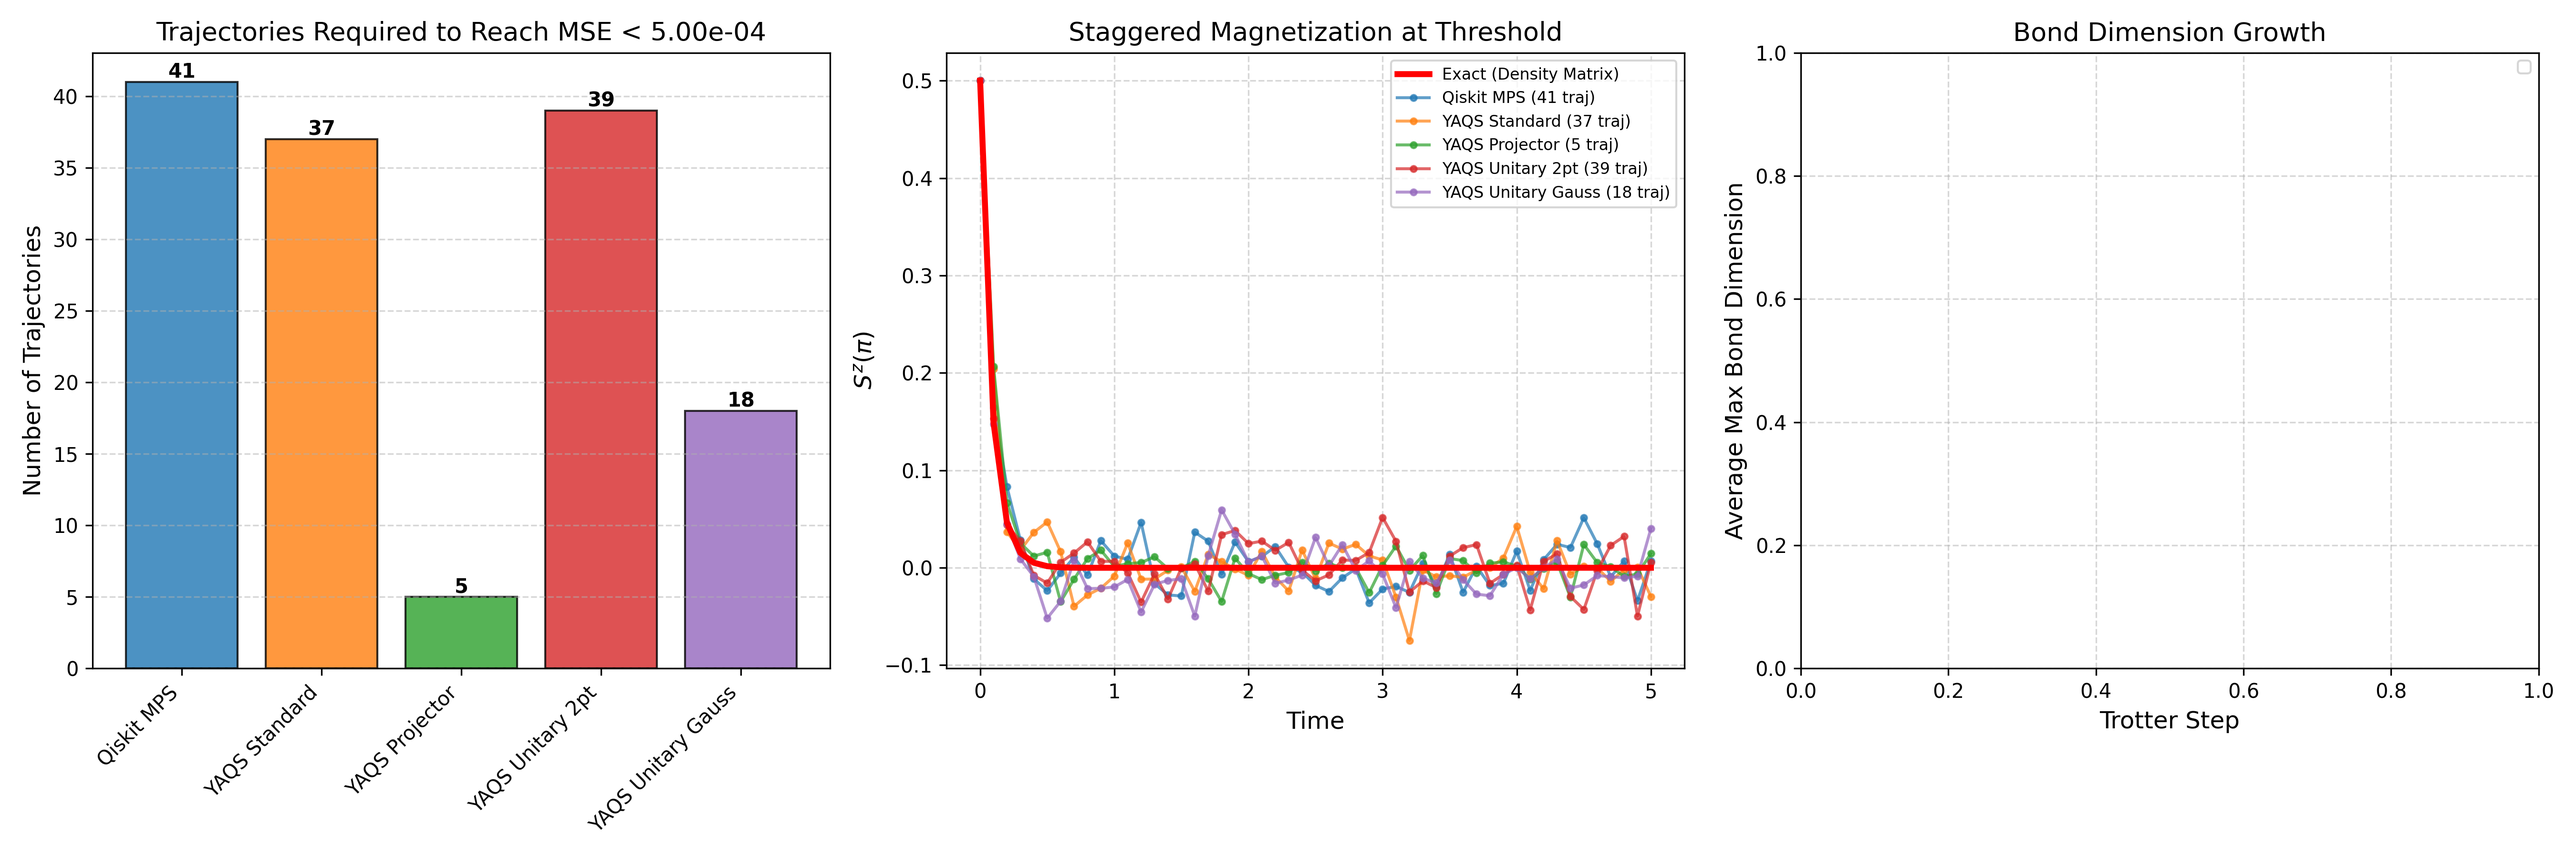
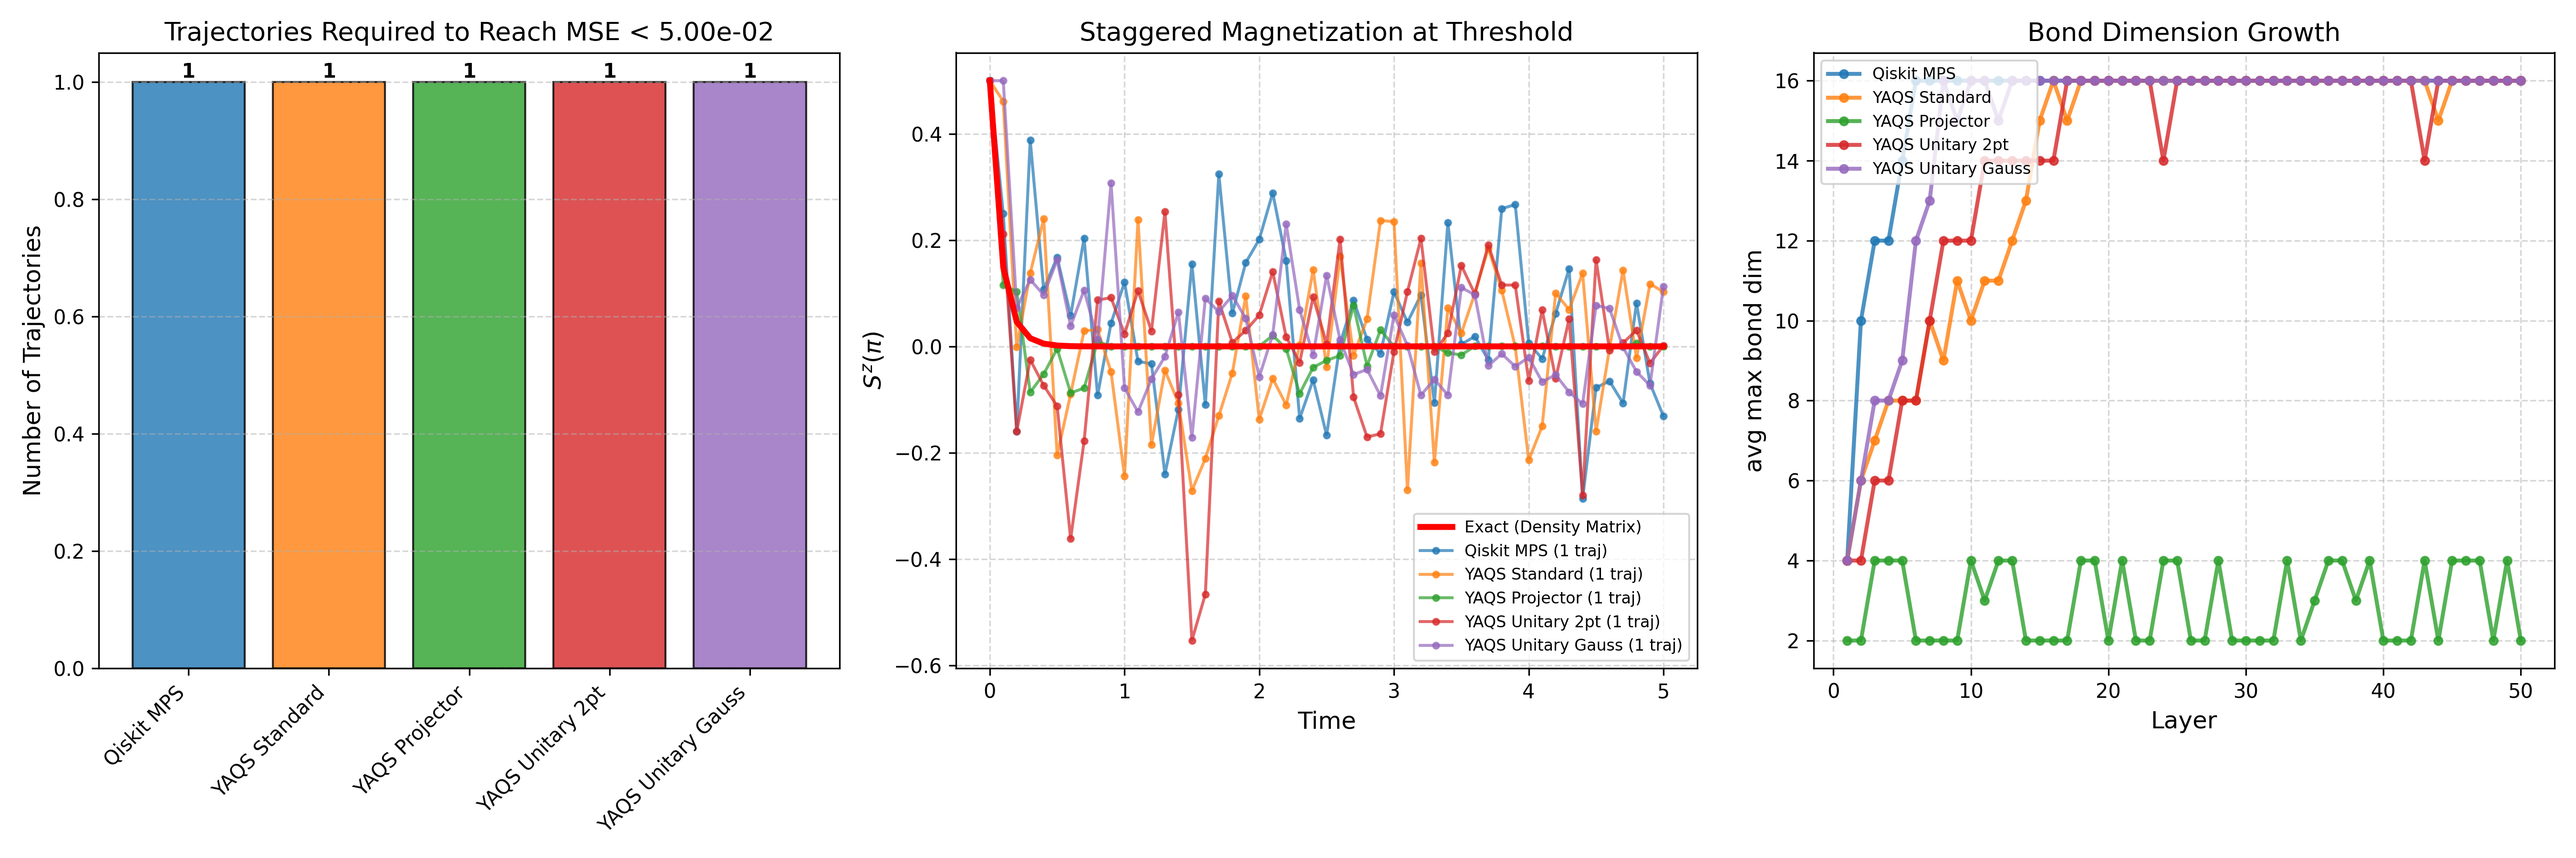
update

diff --git a/src/mqt/yaqs/codex_experiments/experiments/unraveling_trajectory_efficiency.py b/src/mqt/yaqs/codex_experiments/experiments/unraveling_trajectory_efficiency.py
@@ -5,6 +5,7 @@ from qutip import sigmax, sigmay, sigmaz, qeye, tensor, sesolve, basis
 from ..worker_functions.qiskit_simulators import run_qiskit_exact, run_qiskit_mps
 from ..worker_functions.yaqs_simulator import run_yaqs, build_noise_models
 from ..worker_functions.qiskit_noisy_sim import qiskit_noisy_simulator
+from ..worker_functions.plotting import plot_avg_bond_dims
 
 from qiskit import QuantumCircuit
 from qiskit.quantum_info import Pauli
@@ -110,7 +111,7 @@ if __name__ == "__main__":
     num_layers = 50
     tau = 0.1
     noise_strength = 0.1
-    threshold_mse = 5e-2  # Target MSE threshold
+    threshold_mse = 5e-4  # Target MSE threshold
     
     print("="*70)
     print("Trajectory Efficiency Comparison for Unraveling Methods")
@@ -278,61 +279,54 @@ if __name__ == "__main__":
     
     print("="*70)
 
-    # Process bond dimension data
-    # For each method, compute average max bond dimension per layer
-    print("\nProcessing bond dimensions...")
-    bond_dim_avg = {}
-    for method, data in results.items():
-        bonds = data.get("bonds")
-        print(f"  {method}: bonds type = {type(bonds)}")
-        if bonds is not None and isinstance(bonds, dict):
-            # Qiskit format: check for the correct key names
-            print(f"    Keys: {bonds.keys()}")
-            if "per_layer_mean_across_shots" in bonds:
-                bond_dim_avg[method] = bonds["per_layer_mean_across_shots"]
-                print(f"    ✓ Extracted bond dims shape: {bond_dim_avg[method].shape}")
-            elif "per_shot_per_layer_max_bond_dim" in bonds:
-                # Compute average from per-shot data
-                bond_dim_avg[method] = np.mean(bonds["per_shot_per_layer_max_bond_dim"], axis=0)
-                print(f"    ✓ Computed bond dims shape: {bond_dim_avg[method].shape}")
-        elif bonds is not None:
-            # YAQS format: might be numpy array or list
-            if isinstance(bonds, np.ndarray):
-                print(f"    Array shape: {bonds.shape}")
-                # Assume shape (num_traj, num_layers) or (num_layers,)
-                if bonds.ndim == 2:
-                    bond_dim_avg[method] = np.mean(bonds, axis=0)
-                    print(f"    ✓ Averaged bond dims shape: {bond_dim_avg[method].shape}")
-                elif bonds.ndim == 1:
-                    bond_dim_avg[method] = bonds
-                    print(f"    ✓ Bond dims shape: {bond_dim_avg[method].shape}")
-            elif isinstance(bonds, list):
-                # List of bond dims per trajectory
-                try:
-                    bond_array = np.array(bonds)
-                    print(f"    List converted to array shape: {bond_array.shape}")
-                    if bond_array.ndim == 2:
-                        bond_dim_avg[method] = np.mean(bond_array, axis=0)
-                        print(f"    ✓ Averaged bond dims shape: {bond_dim_avg[method].shape}")
-                    elif bond_array.ndim == 1:
-                        bond_dim_avg[method] = bond_array
-                        print(f"    ✓ Bond dims shape: {bond_array.shape}")
-                except Exception as e:
-                    print(f"    ✗ Error processing: {e}")
+    # Organize bond dimension data in the format expected by plot_avg_bond_dims
+    qiskit_bonds = results["Qiskit MPS"]["bonds"]
+    yaqs_bonds_by_label = {
+        "standard": results["YAQS Standard"]["bonds"],
+        "projector": results["YAQS Projector"]["bonds"],
+        "unitary_2pt": results["YAQS Unitary 2pt"]["bonds"],
+        "unitary_gauss": results["YAQS Unitary Gauss"]["bonds"],
+    }
+    
+    # Process bond dimensions for plotting (using same logic as plot_avg_bond_dims)
+    layers = np.arange(1, num_layers + 1)
+    bond_data_for_plot = {}
+    colors = ['#1f77b4', '#ff7f0e', '#2ca02c', '#d62728', '#9467bd']
+    method_names = list(results.keys())
+    
+    # Process Qiskit MPS bonds
+    if qiskit_bonds is not None and "per_layer_mean_across_shots" in qiskit_bonds:
+        q_mean = np.asarray(qiskit_bonds["per_layer_mean_across_shots"])
+        bond_data_for_plot["Qiskit MPS"] = q_mean[:num_layers]
+    
+    # Process YAQS bonds (mean across trajectories; drop initial and final columns)
+    yaqs_method_map = {
+        "standard": "YAQS Standard",
+        "projector": "YAQS Projector",
+        "unitary_2pt": "YAQS Unitary 2pt",
+        "unitary_gauss": "YAQS Unitary Gauss",
+    }
+    
+    for label, arr in yaqs_bonds_by_label.items():
+        method_name = yaqs_method_map[label]
+        if arr is None:
+            continue
+        mean_per_col = np.mean(arr, axis=0)
+        if mean_per_col.size >= 2:
+            mean_layers = mean_per_col[1:-1]
         else:
-            print(f"    ✗ No bond dimension data")
+            mean_layers = mean_per_col
+        bond_data_for_plot[method_name] = mean_layers[:num_layers]
 
     # Create visualization with 3 subplots
     fig, (ax1, ax2, ax3) = plt.subplots(1, 3, figsize=(18, 6))
     
     # Subplot 1: Bar chart of required trajectories
-    methods = list(results.keys())
-    trajectories = [results[m]["trajectories"] for m in methods]
-    colors = ['#1f77b4', '#ff7f0e', '#2ca02c', '#d62728', '#9467bd']
+    trajectories = [results[m]["trajectories"] for m in method_names]
     
-    bars = ax1.bar(range(len(methods)), trajectories, color=colors, alpha=0.8, edgecolor='black')
-    ax1.set_xticks(range(len(methods)))
-    ax1.set_xticklabels(methods, rotation=45, ha='right')
+    bars = ax1.bar(range(len(method_names)), trajectories, color=colors, alpha=0.8, edgecolor='black')
+    ax1.set_xticks(range(len(method_names)))
+    ax1.set_xticklabels(method_names, rotation=45, ha='right')
     ax1.set_ylabel("Number of Trajectories", fontsize=12)
     ax1.set_title(f"Trajectories Required to Reach MSE < {threshold_mse:.2e}", fontsize=13)
     ax1.grid(True, axis='y', linestyle='--', alpha=0.5)
@@ -359,20 +353,17 @@ if __name__ == "__main__":
     ax2.legend(fontsize=8, loc='best')
     ax2.grid(True, linestyle="--", alpha=0.5)
     
-    # Subplot 3: Bond dimension growth
-    layer_indices = np.arange(1, num_layers + 1)
-    for i, (method, data) in enumerate(results.items()):
-        if method in bond_dim_avg:
-            bond_avg = bond_dim_avg[method]
-            # bond_avg should have num_layers elements
-            if len(bond_avg) == num_layers:
-                ax3.plot(layer_indices, bond_avg, '-o', label=f"{method}", 
-                         alpha=0.8, markersize=4, color=colors[i])
+    # Subplot 3: Bond dimension growth (using same logic as plot_avg_bond_dims)
+    for i, method in enumerate(method_names):
+        if method in bond_data_for_plot:
+            bond_avg = bond_data_for_plot[method]
+            ax3.plot(layers, bond_avg[:num_layers], '-o', label=method, 
+                     alpha=0.8, markersize=4, color=colors[i], linewidth=2)
     
-    ax3.set_xlabel("Trotter Step", fontsize=12)
-    ax3.set_ylabel("Average Max Bond Dimension", fontsize=12)
+    ax3.set_xlabel("Layer", fontsize=12)
+    ax3.set_ylabel("avg max bond dim", fontsize=12)
     ax3.set_title("Bond Dimension Growth", fontsize=13)
-    ax3.legend(fontsize=8, loc='best')
+    ax3.legend(fontsize=8, loc='upper left')
     ax3.grid(True, linestyle="--", alpha=0.5)
     
     plt.tight_layout()
